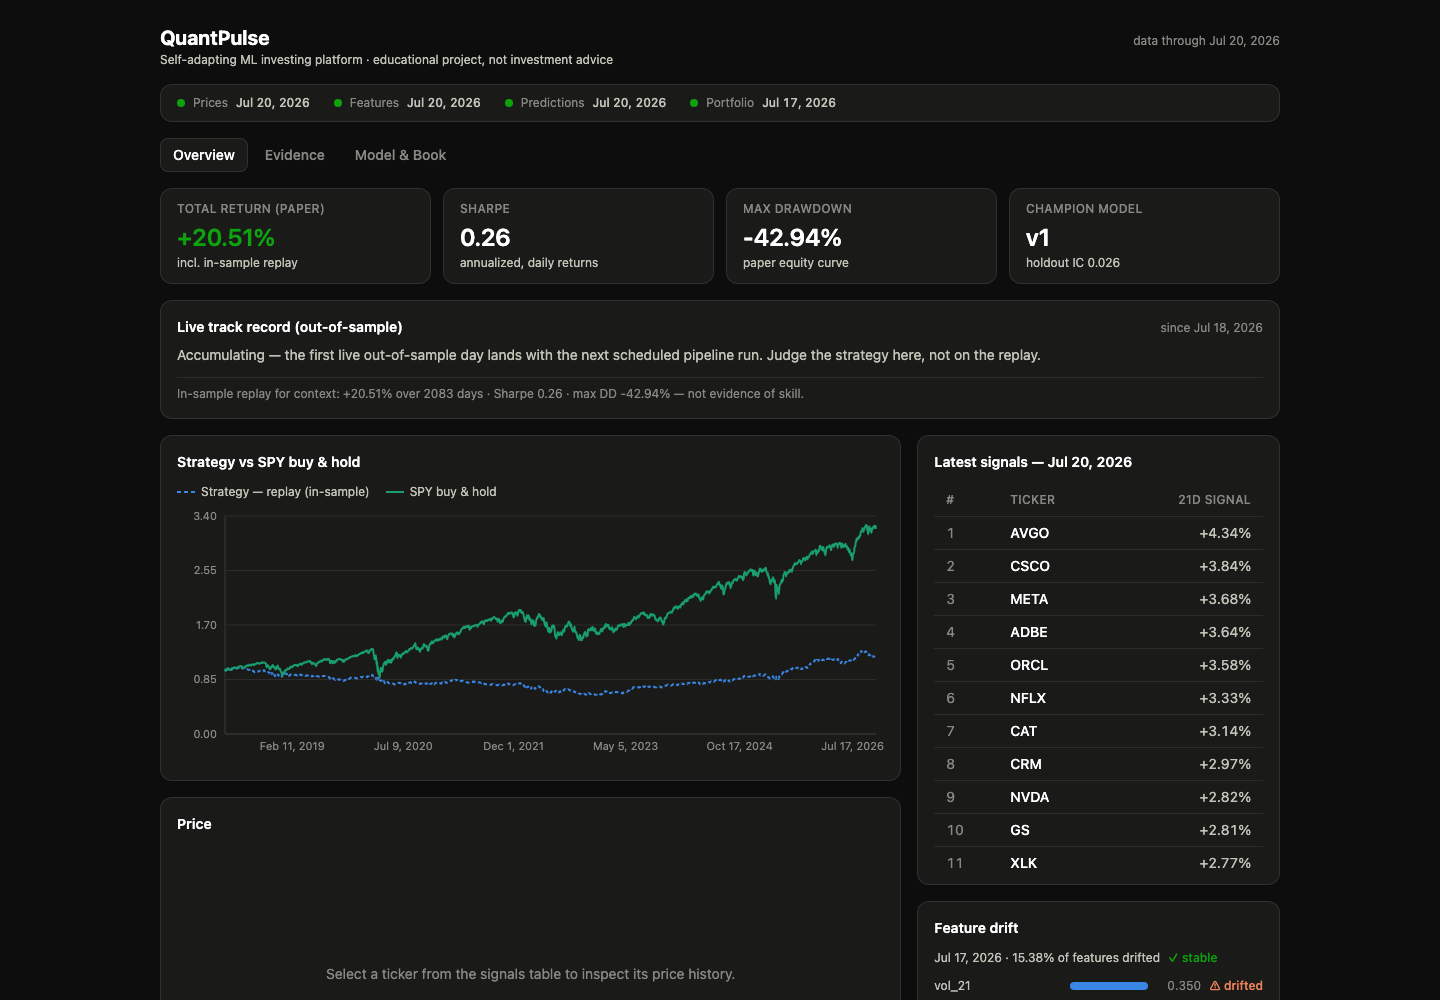
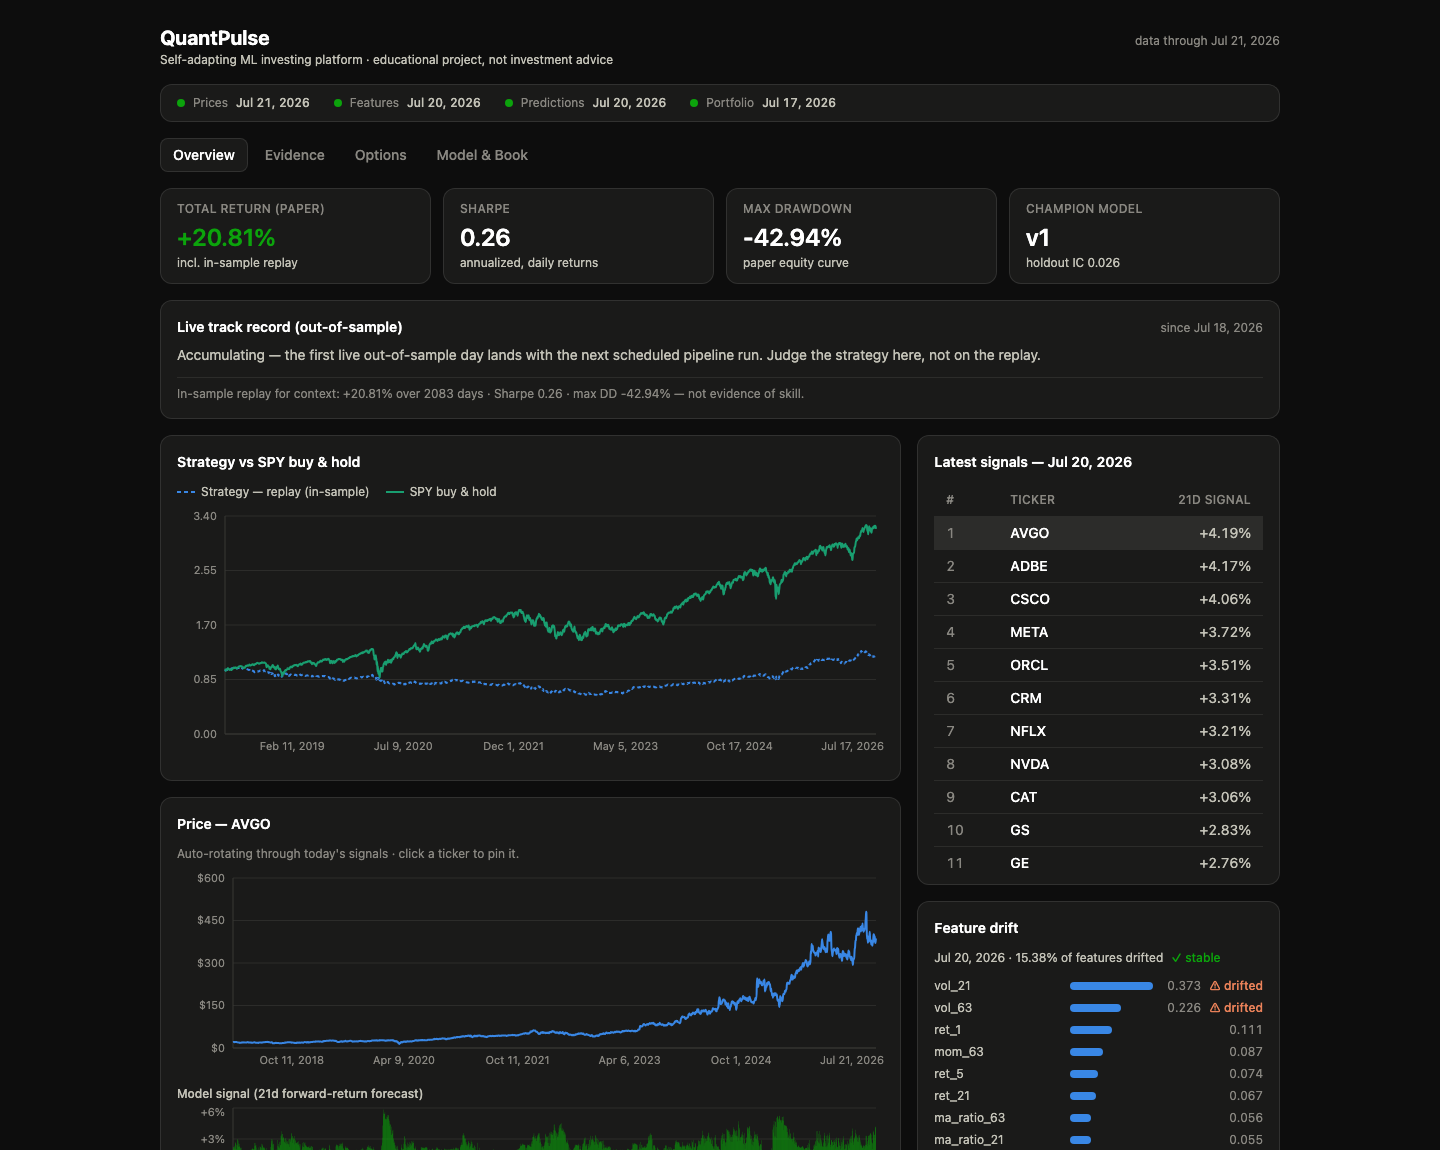
docs: screenshots of every tab; fix IV smile to use liquid OTM contracts
Documentation: README gains per-tab screenshots (Evidence, Options,
Model & Book) with the reasoning behind each, plus feature bullets for
the CAPM decomposition and the alerting/catch-up sensors. architecture
gains sections on measuring skill vs market exposure and on
reliability; data-dictionary gains fct_alpha_beta; development-history
gains M10 and a consolidated options data-quality section.

Capturing the screenshots surfaced a real quant bug: the volatility
smile included deep-ITM contracts with zero open interest, whose stale
quotes spike IV past 150% at both wings. The smile is now built from
out-of-the-money contracts with open interest only (how real vol
surfaces are constructed) and the chain table shows the tradeable book
ordered by liquidity. Tabs are now hash-routed, so views are
deep-linkable and docs can screenshot them directly.

diff --git a/web/src/test/useHashTab.test.ts b/web/src/test/useHashTab.test.ts
@@ -1,0 +1,43 @@
+import { act, renderHook } from "@testing-library/react";
+import { afterEach, describe, expect, it } from "vitest";
+
+import { slugify, useHashTab } from "../hooks/useHashTab";
+
+const TABS = ["Overview", "Evidence", "Options", "Model & Book"];
+
+afterEach(() => {
+  window.location.hash = "";
+});
+
+describe("slugify", () => {
+  it("makes URL-safe slugs", () => {
+    expect(slugify("Overview")).toBe("overview");
+    expect(slugify("Model & Book")).toBe("model-book");
+  });
+});
+
+describe("useHashTab", () => {
+  it("defaults to the first tab with no hash", () => {
+    const { result } = renderHook(() => useHashTab(TABS));
+    expect(result.current[0]).toBe("Overview");
+  });
+
+  it("reads the initial tab from the hash", () => {
+    window.location.hash = "evidence";
+    const { result } = renderHook(() => useHashTab(TABS));
+    expect(result.current[0]).toBe("Evidence");
+  });
+
+  it("writes the hash when a tab is selected", () => {
+    const { result } = renderHook(() => useHashTab(TABS));
+    act(() => result.current[1]("Model & Book"));
+    expect(result.current[0]).toBe("Model & Book");
+    expect(window.location.hash).toBe("#model-book");
+  });
+
+  it("falls back to the first tab for an unknown hash", () => {
+    window.location.hash = "nonsense";
+    const { result } = renderHook(() => useHashTab(TABS));
+    expect(result.current[0]).toBe("Overview");
+  });
+});

diff --git a/web/src/hooks/useHashTab.ts b/web/src/hooks/useHashTab.ts
@@ -1,0 +1,31 @@
+import { useEffect, useState } from "react";
+
+// Tabs live in the URL hash so a view is shareable and bookmarkable
+// (e.g. /#evidence), browser back/forward works, and docs can link straight
+// to a specific tab.
+export function slugify(tab: string): string {
+  return tab.toLowerCase().replace(/[^a-z0-9]+/g, "-").replace(/^-|-$/g, "");
+}
+
+export function useHashTab(tabs: string[]): [string, (tab: string) => void] {
+  const fromHash = (): string => {
+    const slug = window.location.hash.replace(/^#/, "");
+    return tabs.find((t) => slugify(t) === slug) ?? tabs[0];
+  };
+
+  const [tab, setTab] = useState(fromHash);
+
+  useEffect(() => {
+    const onHashChange = () => setTab(fromHash());
+    window.addEventListener("hashchange", onHashChange);
+    return () => window.removeEventListener("hashchange", onHashChange);
+    // eslint-disable-next-line react-hooks/exhaustive-deps
+  }, [tabs.join("|")]);
+
+  const select = (next: string) => {
+    window.location.hash = slugify(next);
+    setTab(next);
+  };
+
+  return [tab, select];
+}

diff --git a/web/src/components/IvSkewChart.tsx b/web/src/components/IvSkewChart.tsx
@@ -36,14 +36,34 @@ export function IvSkewChart({ chain }: { chain: OptionChain }) {
     );
   }
 
+  // Build the smile from OUT-OF-THE-MONEY contracts only (calls above spot, puts below),
+  // and require open interest. Deep-ITM options barely trade, so their quoted IV is stale
+  // noise — including them turns the smile into a 150% spike at both wings.
+  const spot = chain.underlying_close;
+  const liquid = chain.contracts.filter(
+    (c) =>
+      c.open_interest > 0 &&
+      c.implied_volatility > 0.01 &&
+      (spot === null ||
+        (c.option_type === "call" ? c.strike >= spot : c.strike <= spot)),
+  );
+
   const byStrike = new Map<number, { strike: number; call?: number; put?: number }>();
-  for (const c of chain.contracts) {
+  for (const c of liquid) {
     const row = byStrike.get(c.strike) ?? { strike: c.strike };
     if (c.option_type === "call") row.call = c.implied_volatility;
     else row.put = c.implied_volatility;
     byStrike.set(c.strike, row);
   }
   const data = [...byStrike.values()].sort((a, b) => a.strike - b.strike);
+
+  if (data.length === 0) {
+    return (
+      <p className="py-8 text-center text-sm" style={{ color: "var(--text-muted)" }}>
+        No liquid out-of-the-money contracts in this snapshot.
+      </p>
+    );
+  }
 
   return (
     <div>
@@ -52,7 +72,8 @@ export function IvSkewChart({ chain }: { chain: OptionChain }) {
         <LegendChip color="var(--series-2)" label="Put IV" />
         {chain.underlying_close !== null ? (
           <span className="text-xs" style={{ color: "var(--text-muted)" }}>
-            spot ${formatNumber(chain.underlying_close)} · expiry {chain.expiry}
+            spot ${formatNumber(chain.underlying_close)} · expiry {chain.expiry} · OTM, open
+            interest &gt; 0
           </span>
         ) : null}
       </div>

diff --git a/web/src/components/OptionChainTable.tsx b/web/src/components/OptionChainTable.tsx
@@ -9,6 +9,19 @@ export function OptionChainTable({ chain }: { chain: OptionChain }) {
       </p>
     );
   }
+  // Contracts with no open interest have never traded; their quotes and IV are stale
+  // noise, so show the tradeable book ordered by liquidity.
+  const contracts = chain.contracts
+    .filter((c) => c.open_interest > 0)
+    .sort((a, b) => b.open_interest - a.open_interest);
+
+  if (contracts.length === 0) {
+    return (
+      <p className="py-8 text-center text-sm" style={{ color: "var(--text-muted)" }}>
+        No contracts with open interest in this snapshot.
+      </p>
+    );
+  }
   return (
     <div className="max-h-96 overflow-y-auto">
       <table className="w-full text-sm">
@@ -25,7 +38,7 @@ export function OptionChainTable({ chain }: { chain: OptionChain }) {
           </tr>
         </thead>
         <tbody>
-          {chain.contracts.map((c) => {
+          {contracts.map((c) => {
             const mid = c.bid !== null && c.ask !== null ? (c.bid + c.ask) / 2 : c.last_price;
             return (
               <tr

diff --git a/web/src/App.tsx b/web/src/App.tsx
@@ -1,4 +1,4 @@
-import { useState } from "react";
+import type { ReactNode } from "react";
 
 import { AlphaBetaCard } from "./components/AlphaBetaCard";
 import { BenchmarkEquityChart } from "./components/BenchmarkEquityChart";
@@ -33,12 +33,13 @@ import {
   useRisk,
   useTrackRecord,
 } from "./hooks/useApi";
+import { useHashTab } from "./hooks/useHashTab";
 import { useRotatingTicker } from "./hooks/useRotatingTicker";
 import { deltaColor, formatDate, formatNumber, formatPercent, formatSignedPercent } from "./lib/format";
 
 const TABS = ["Overview", "Evidence", "Options", "Model & Book"];
 
-function Section({ title, children }: { title: string; children: React.ReactNode }) {
+function Section({ title, children }: { title: string; children: ReactNode }) {
   return (
     <section className="card p-4">
       <h2 className="mb-3 text-sm font-semibold" style={{ color: "var(--text-primary)" }}>
@@ -268,7 +269,7 @@ function ModelTab() {
 export default function App() {
   const health = useHealth();
   const freshness = useFreshness();
-  const [tab, setTab] = useState(TABS[0]);
+  const [tab, setTab] = useHashTab(TABS);
 
   const apiDown = health.isError;
 

diff --git a/README.md b/README.md
@@ -11,6 +11,35 @@ A local-first MLOps platform for a **self-adapting ML investing model**. Fully f
 
 ![QuantPulse dashboard](docs/assets/dashboard.png)
 
+<details>
+<summary><b>More screenshots</b> — Evidence, Options, and Model &amp; Book tabs</summary>
+
+### Evidence — does the model actually have skill?
+
+![Evidence tab](docs/assets/evidence-tab.png)
+
+The CAPM decomposition is the headline: **beta −0.05 and R² 0.006 confirm the book is
+genuinely market-neutral**, so comparing its raw return to SPY was never the right test.
+What matters is alpha — currently **−0.56% annualized**, i.e. the signal adds nothing
+independent of the market over this window. Below it, signal quintiles still slope the
+right way (Q1 highest → Q5 lowest: real ranking skill, modest in size) alongside drawdown
+and rolling Sharpe.
+
+### Options — implied volatility, Greeks, and a hypothetical expression of the signal
+
+![Options tab](docs/assets/options-tab.png)
+
+The volatility smile is built from **out-of-the-money contracts with open interest only** —
+deep in-the-money options barely trade, so their quoted IV is stale noise that would
+otherwise spike both wings past 150%. The right-hand card translates the model's
+directional view into a defined-risk spread, clearly labelled as illustration, never advice.
+
+### Model &amp; Book — every champion/challenger decision, and the current paper positions
+
+![Model and book tab](docs/assets/model-book-tab.png)
+
+</details>
+
 ## What it does
 
 ```mermaid
@@ -35,6 +64,8 @@ flowchart LR
 - **Self-adapting model** — LightGBM forward-return model retrained weekly *and* whenever feature drift is detected; a challenger only replaces the champion if it wins on an out-of-sample backtest.
 - **Transforms** — a dbt project ([transform/](transform/)) builds staging views and analytics marts (daily returns, signal-quintile performance, portfolio drawdown) with dbt tests, integrated into the Dagster asset graph via `dagster-dbt`.
 - **Options analytics** — daily live option-chain snapshots (free via yfinance) enriched with Black-Scholes Greeks, surfaced as an implied-volatility smile/skew, put/call ratio, and a chain browser. Because no free *historical* chain data exists, the pipeline **builds its own options history forward** from the first run. A clearly-disclaimered panel also illustrates how the model's directional view *would* translate into a defined-risk spread — an illustration, never advice.
+- **Measured honestly** — a CAPM decomposition separates market exposure (beta) from genuine skill (alpha) and reports the information ratio, because raw return vs SPY is a meaningless test for a market-neutral book. The dashboard states the verdict in plain English so the numbers can't be misread.
+- **Fails loudly, catches up by itself** — a run-failure sensor logs every failure (served at `/alerts`, plus a desktop notification) and a catch-up sensor re-requests any trading day the schedule slept through, so a laptop that sleeps doesn't silently cost you irreplaceable history.
 - **Evidence, not vibes** — the dashboard separates the in-sample replay from the **live out-of-sample track record**, benchmarks the strategy against SPY buy-and-hold, charts signal-quintile forward returns and rolling risk, and shows every champion/challenger decision the self-adapting loop ever made.
 - **Serving** — FastAPI exposes predictions, portfolio equity curve, model metadata, and drift status.
 - **Dashboard** — React app with templated charts that refresh from the API.

diff --git a/docs/architecture.md b/docs/architecture.md
@@ -47,6 +47,31 @@ expiry and moneyness bucket — the smile/skew and term structure).
 profit/loss and breakeven. It is an illustration of the model's directional view — never
 a recommendation, and the UI says so prominently.
 
+## Measuring skill vs market exposure
+
+`fct_alpha_beta` regresses strategy excess returns on benchmark excess returns (Postgres
+`regr_slope` / `regr_intercept` / `regr_r2`) per evidence phase, yielding beta, annualized
+alpha, R², tracking error and information ratio. This exists because raw return vs SPY is
+the wrong test for a market-neutral long/short book: it gives up market beta by
+construction, so trailing the index in a bull run says nothing about skill. Beta answers
+"how much of this is just the market?" and alpha answers "what does the signal actually
+add?". Served at `/portfolio/alpha-beta`; the Evidence tab renders it with a plain-English
+verdict, and switches from the replay to the live phase once ~20 live days exist.
+
+## Reliability: alerts and catch-up
+
+Two Dagster sensors (`orchestration/definitions.py`) close the two failure modes a
+local-first platform actually hits:
+
+- `pipeline_failure_alert` — a run-failure sensor writing to a JSONL log in
+  `DAGSTER_HOME` (`monitoring/alerts.py`, served at `/alerts`) plus a best-effort macOS
+  notification. Silent failure is the worst outcome for a system whose value is
+  accumulating daily history that cannot be backfilled.
+- `missed_partition_catchup_sensor` — compares expected NYSE sessions against actual price
+  coverage (`orchestration/catchup.py`) and re-requests any day below 80% universe
+  coverage, bounded per tick. Schedules only fire while the stack is up, and this runs on
+  a laptop that sleeps.
+
 ## Evidence layer
 
 The dashboard's job is to make the strategy *auditable*, not to sell it. The dbt marts

diff --git a/docs/development-history.md b/docs/development-history.md
@@ -51,6 +51,25 @@ Stack decisions made with the owner (a data engineer who uses Airflow 3.2.2 at w
   positions table, three-tab UI; integration tests run a REAL `dbt build` inside the
   throwaway test DB.
 
+- **M10** rigor & reliability: CAPM alpha/beta decomposition (`fct_alpha_beta`), pipeline
+  failure alerts + missed-day catch-up sensors, hash-routed (deep-linkable) dashboard tabs.
+
+## Options data-quality findings (M9/M10, learned the hard way)
+
+Yahoo's option feed is only trustworthy where contracts actually trade, and it fails at
+*both* extremes:
+
+- **Near-zero IV** on same-day/untraded contracts made ATM IV read ≈0.00%. Fixed by
+  following the ~30-day (VIX) convention with a ≥7-day and IV>0.01 filter.
+- **Absurdly high IV** (120–160%) on deep in-the-money contracts with zero open interest
+  turned the volatility "smile" into noise spikes at both wings. Fixed by building the
+  smile from **out-of-the-money contracts with open interest only**, which is how real vol
+  surfaces are constructed; the chain table likewise shows only contracts with OI, sorted
+  by liquidity.
+- **Timing matters more than anything**: the same universe averaged ≈33% ATM IV post-close
+  and ≈36% during market hours, versus ≈2.1% pre-market. Snapshots must run when the
+  market has been trading.
+
 ## Current model & data snapshot (as of 2026-07-19)
 
 - Universe: 50 tickers (40 stocks + 10 ETFs) in `configs/universe.yaml`; history from

diff --git a/docs/data-dictionary.md b/docs/data-dictionary.md
@@ -24,5 +24,6 @@ Populated from M1 onward; columns finalized alongside the Alembic migrations.
 | `fct_portfolio_vs_benchmark` | date | Strategy equity vs SPY buy-and-hold indexed to the portfolio's first date |
 | `fct_track_record` | phase | Per-phase performance summary — the `live` row is the honest out-of-sample record |
 | `dim_universe` | ticker | Members with price-coverage metadata |
+| `fct_alpha_beta` | phase | CAPM decomposition vs SPY: beta, annualized alpha, R², tracking error, information ratio (Postgres regression aggregates over excess returns) |
 | `fct_option_summary` | (ticker, snapshot_date) | ATM implied volatility and put/call open-interest ratio |
 | `fct_iv_surface` | (ticker, snapshot_date, expiry, option_type, moneyness_bucket) | Mean IV — the volatility smile/skew and term structure |